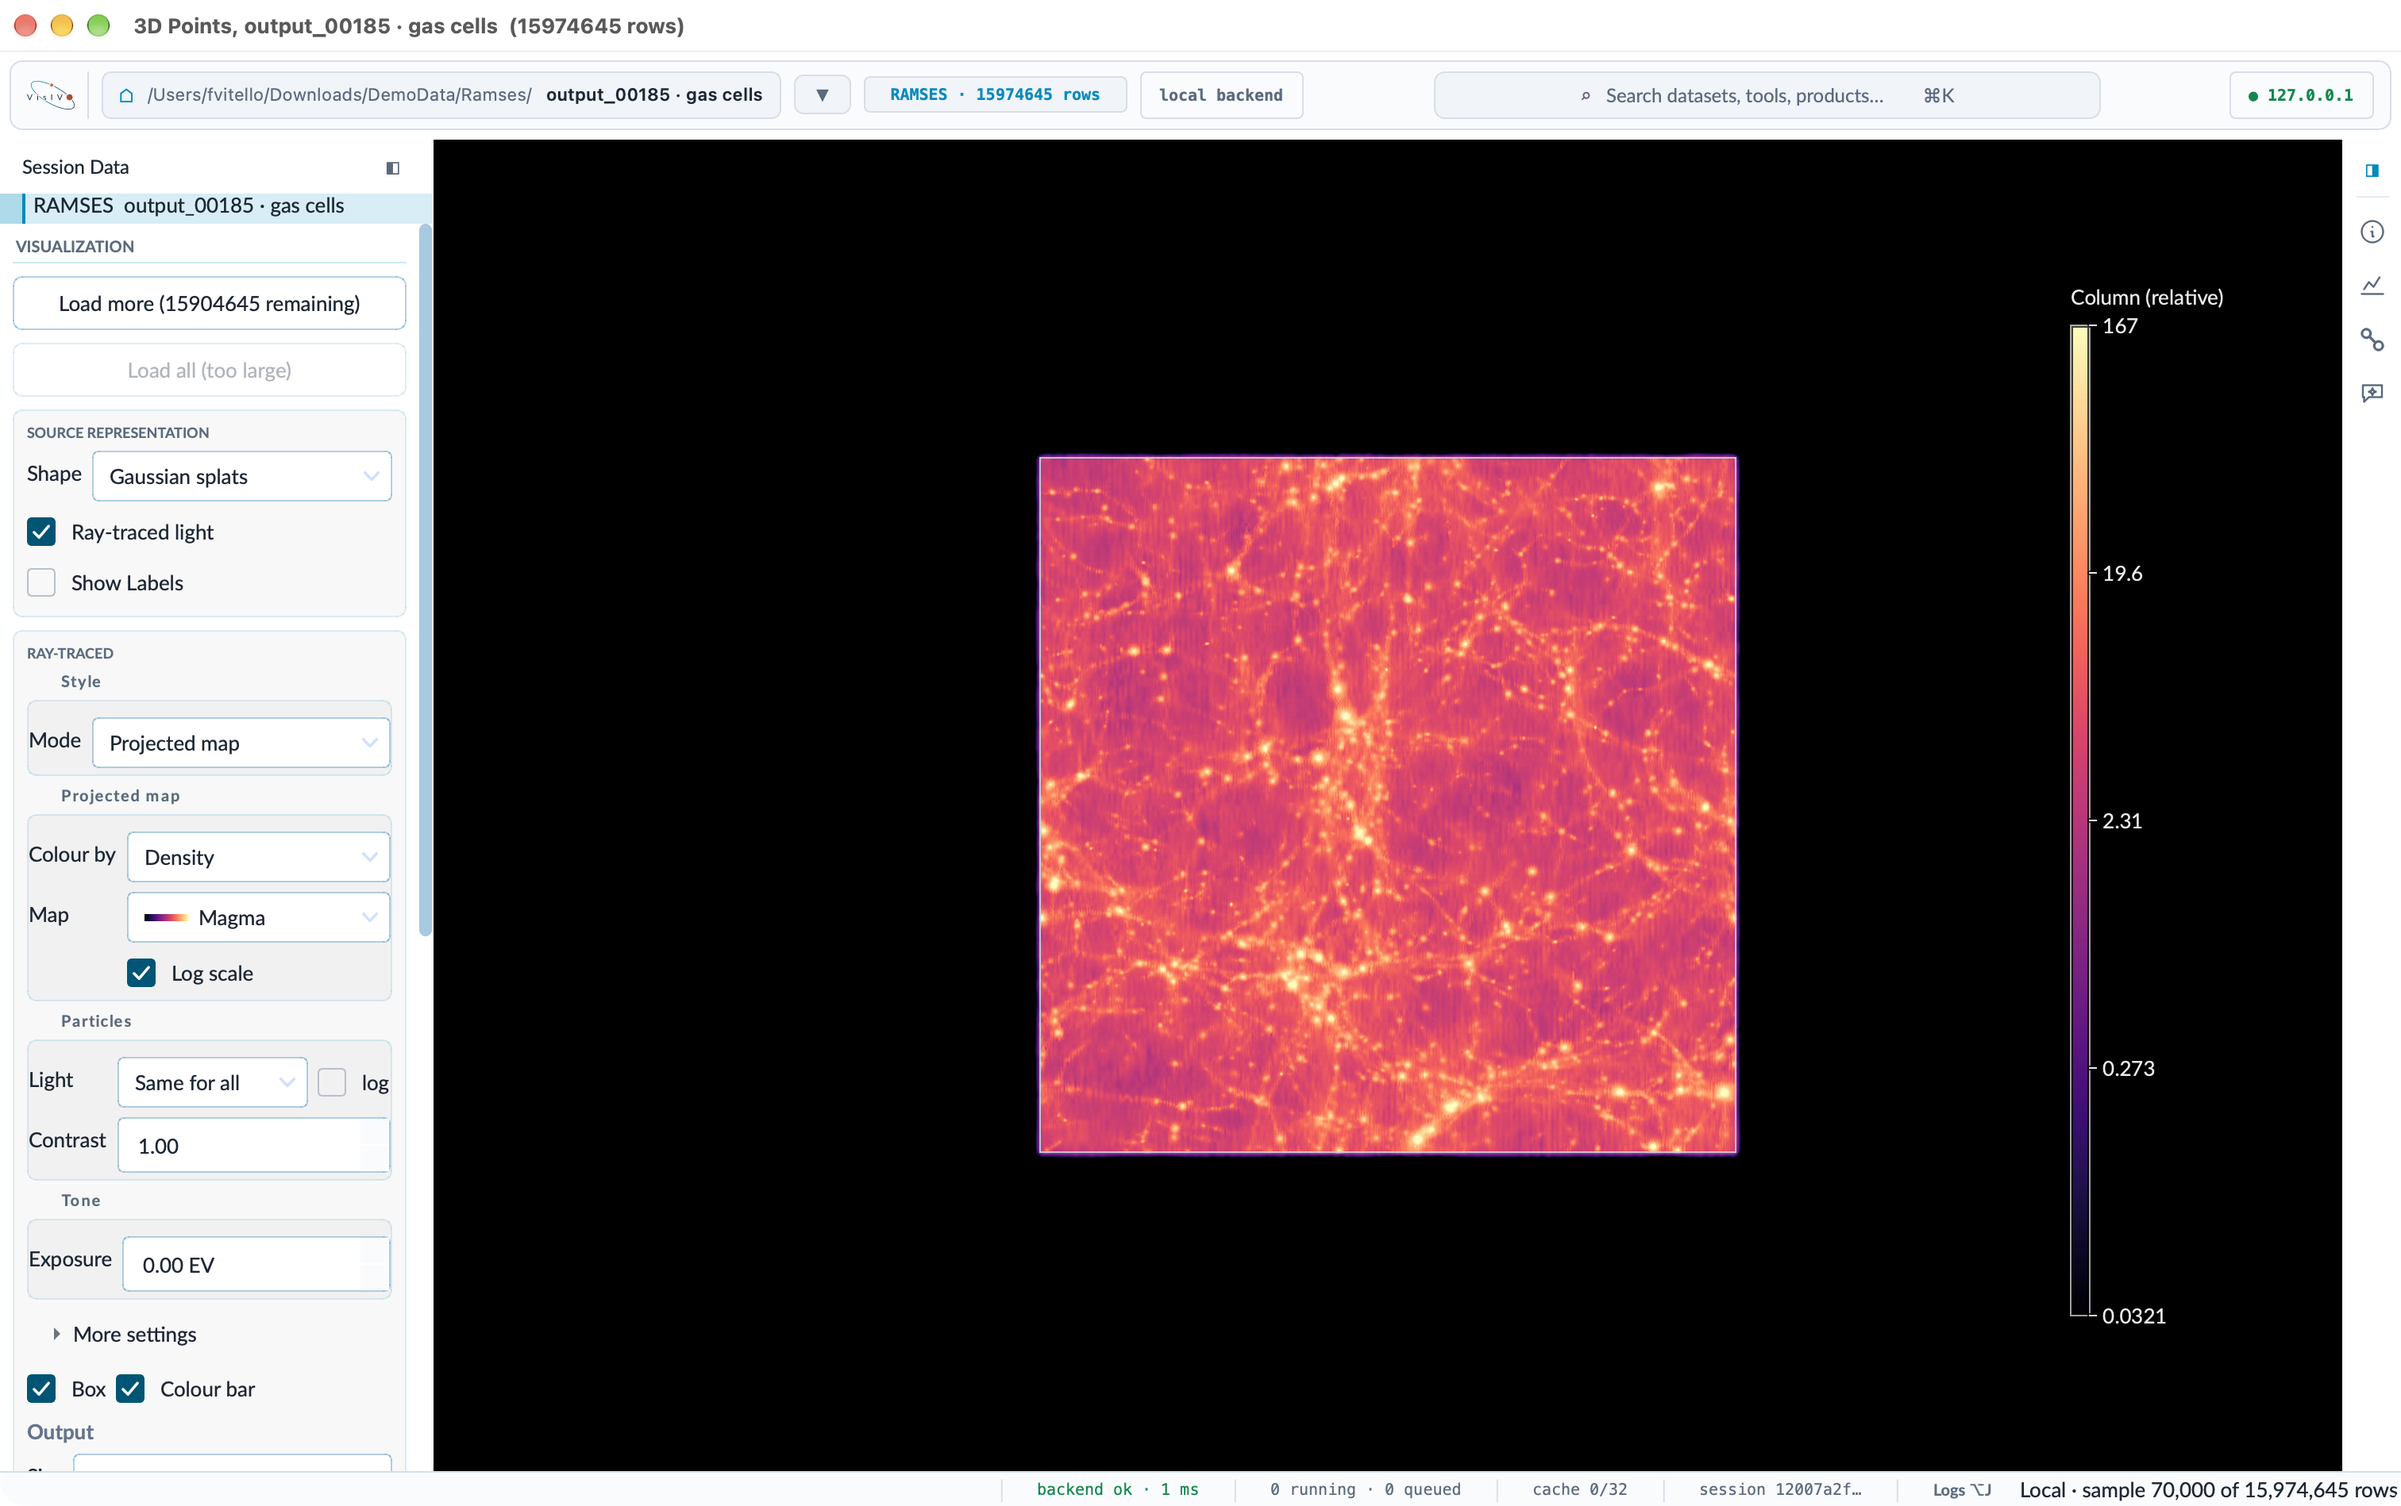
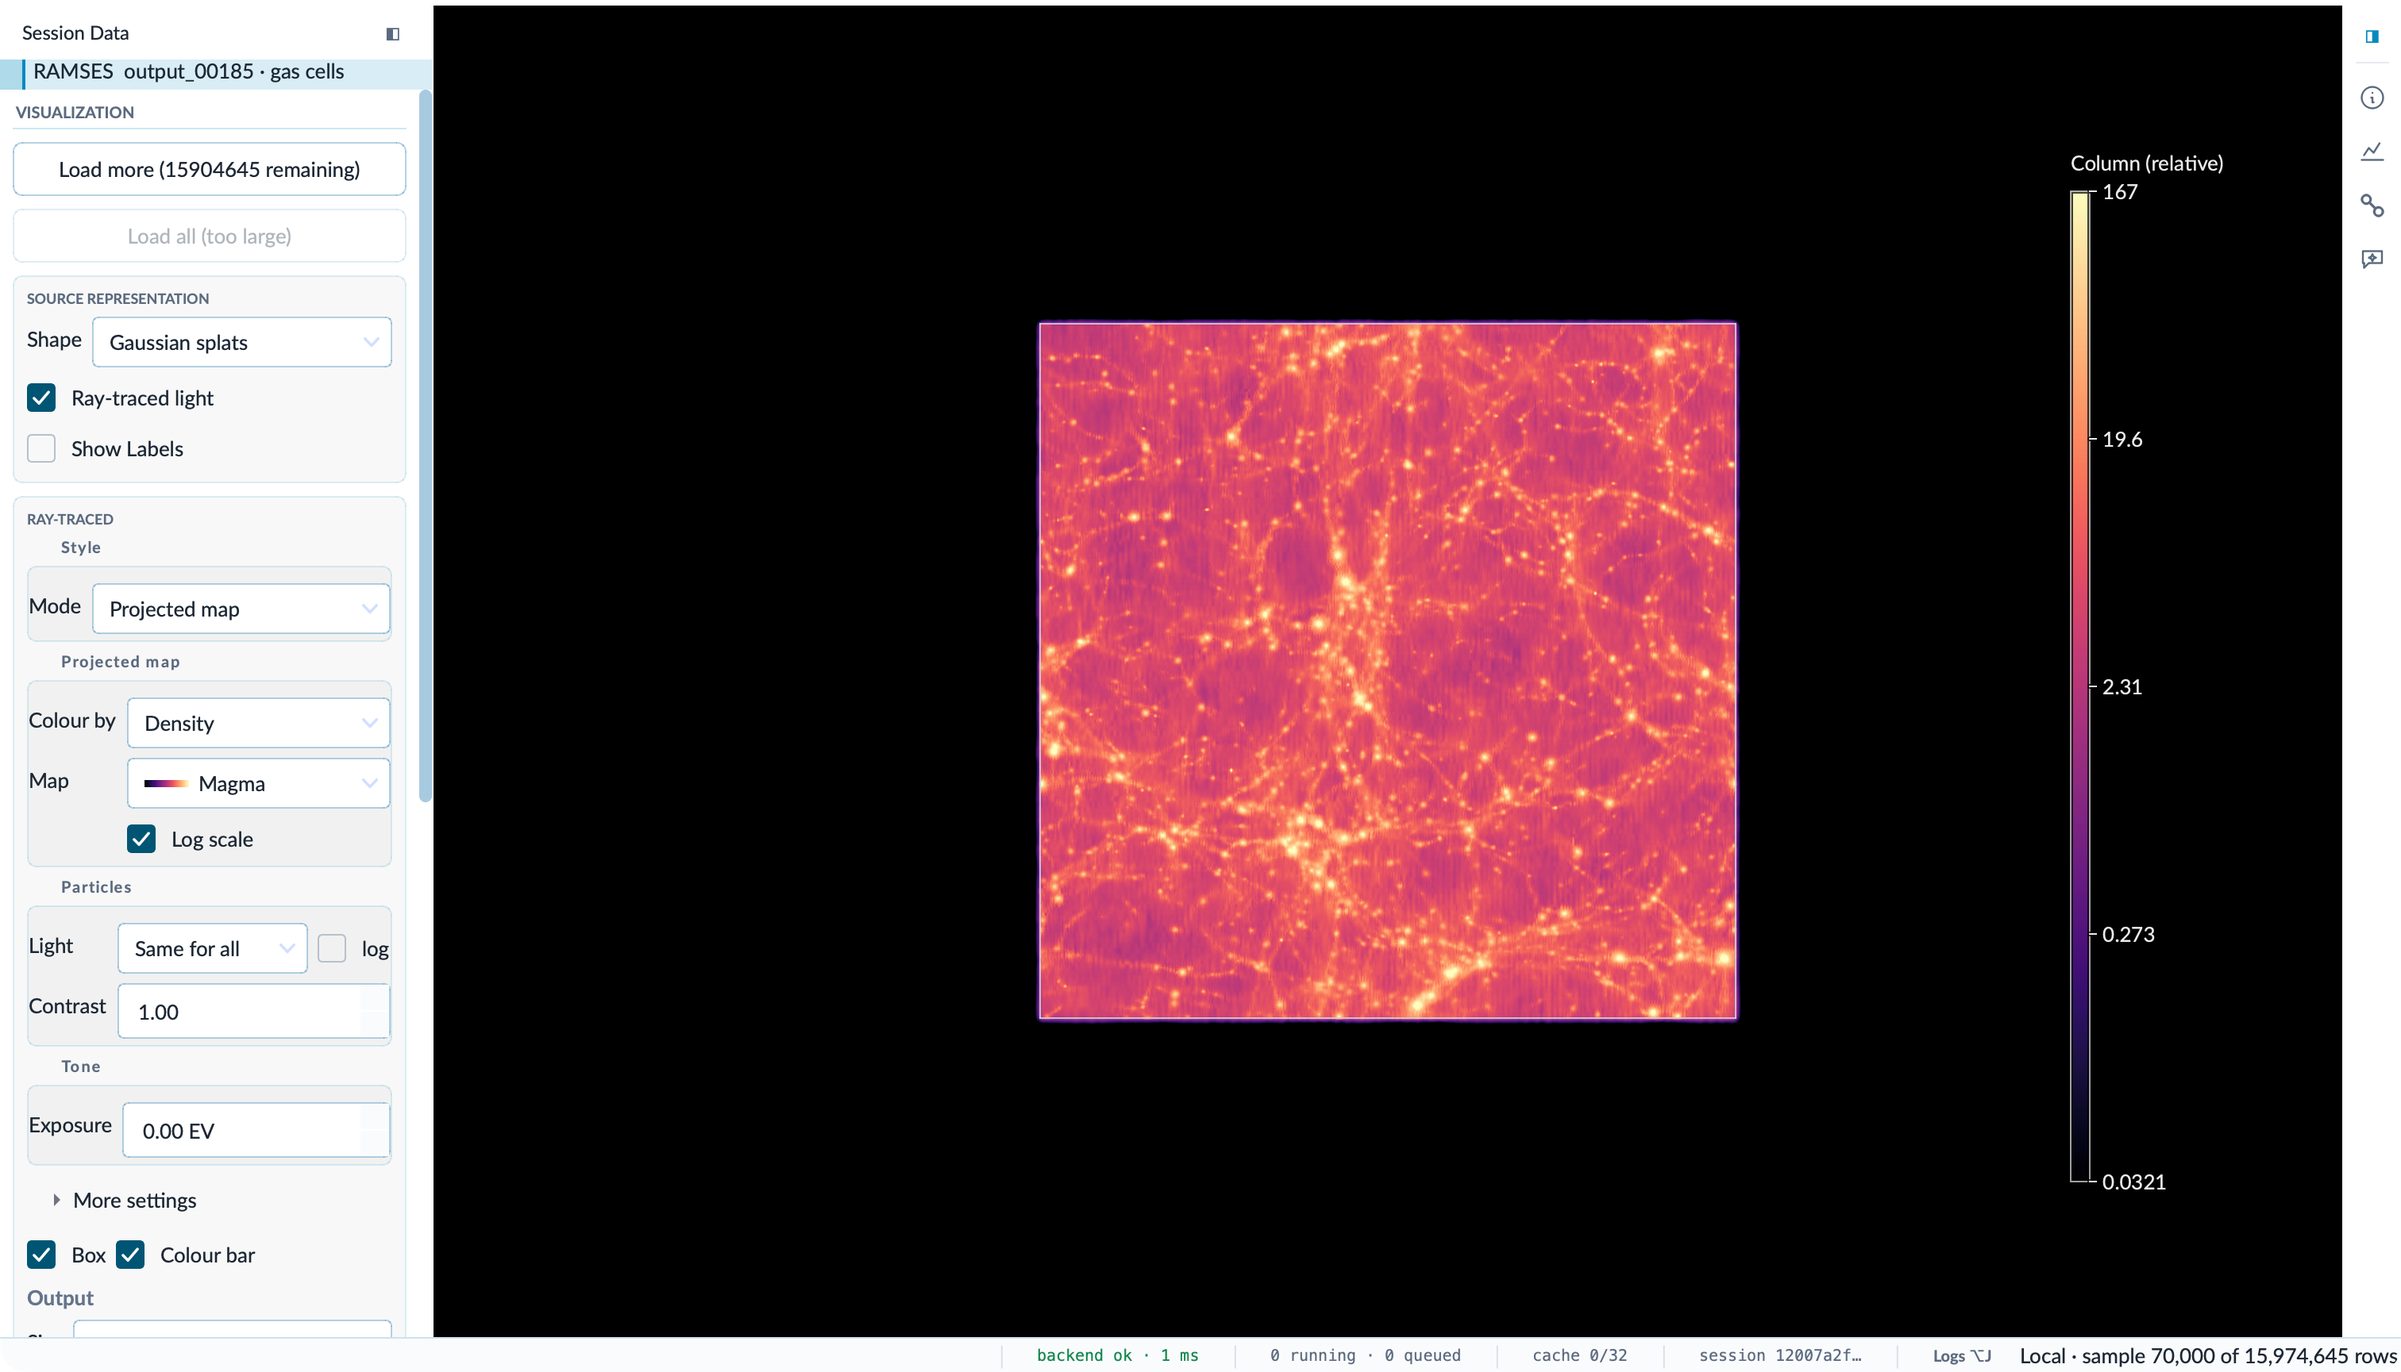
Docs use case: no home path in shot 2; the run allows levels up to 15; the cells-cut message is a passing status line

diff --git a/docs/user/use-cases/SHOTLIST.md b/docs/user/use-cases/SHOTLIST.md
@@ -169,7 +169,7 @@ Local backend, a GPU view on this machine. `snap_p50n576_z0.tbl` and `snap_comaI
 | File | What must be on screen |
 |---|---|
 | `15-amr-simulation-1.png` | The *Open simulation snapshot* dialog after *File ▸ Open…* on `DemoData/Ramses/output_00185/info_00185.txt`: its description (2097152 dark matter, 15974645 gas cells, levels and hydro variables) and *Component to open* on *dark matter*. Capture the dialog only. |
-| `15-amr-simulation-2.png` | 3-D points window of the *gas cells* component, *Ray-traced light* ticked, *Mode* *Projected map*, *Colour by* *Density*, *Map* *Magma*, *Log scale* ticked; the box filling about half the view; the *RAY-TRACED* card visible in the dock; the status bar reading *Local · sample 70,000 of 15,974,645 rows*. Catalogue table closed. |
+| `15-amr-simulation-2.png` | 3-D points window of the *gas cells* component, *Ray-traced light* ticked, *Mode* *Projected map*, *Colour by* *Density*, *Map* *Magma*, *Log scale* ticked; the box filling about half the view; the *RAY-TRACED* card visible in the dock; the status bar reading *Local · sample 70,000 of 15,974,645 rows*. Catalogue table closed. Crop the window below its path toolbar. |
 | `15-amr-simulation-3.png` | *Data ▸ Uniform Cube of an AMR Output…* on the same output: *Field* `density`, *Level* *Level 9*, *Limit* 256 million voxels, the plan reading 512 × 512 × 512 voxels, voxel 288 kpc, finest level in the region 13. Capture the dialog only. |
 | `15-amr-simulation-4.png` | The level-9 cube at full resolution, *2D* at *Z* 326 (z = 93737 kpc), *Inferno*, *Log*; *Show AMR blocks* ticked in the Inspector's *AMR MESH* section, blocks over the slice. Crop the window below its path toolbar. |
 | `15-amr-simulation-5.png` | The refined level-12 cube (264³) from *Refine this box…* with *X* 209–241, *Y* 305–337, *Z* 309–341 of the level-9 cube, *2D* at *Z* 132 through the knot, *Inferno*, *Log*. Crop the window below its path toolbar. |

diff --git a/docs/user/use-cases/15-amr-simulation.md b/docs/user/use-cases/15-amr-simulation.md
@@ -8,7 +8,8 @@ mesh is refined, and pull out the densest knot at a finer level.
 
 - The RAMSES output `DemoData/Ramses/output_00185`: a cosmological zoom with 16
   files per kind (`amr_`, `hydro_`, `part_`), 2,097,152 dark-matter particles
-  and a mesh of 15,974,645 leaf cells on levels 7 to 13. Its box is about
+  and a mesh of 15,974,645 leaf cells on levels 7 to 13 (the run allows
+  levels up to 15, but none of its cells reached 14 or 15). Its box is about
   147,400 kpc across. It has no `*_file_descriptor.txt`, so its hydro and
   particle fields are read by their position, the layout RAMSES used before
   descriptors.
@@ -92,7 +93,8 @@ mesh is refined, and pull out the densest knot at a finer level.
    densest knot of the box. In the Inspector, under *AMR MESH* (it reads
    *density at level 9 of 13, from ramses.*), tick *Show AMR blocks*. The cells
    this slice cuts are outlined, coloured by their level, and the status line
-   reads *48844 cells cut by this slice, levels 7 to 13.* The blocks follow
+   says for a few seconds how many cells the slice cuts and on which levels
+   (here *48844 cells cut by this slice, levels 7 to 13.*). The blocks follow
    the slice as you move it.
 
    ```{figure} img/15-amr-simulation-4.png
